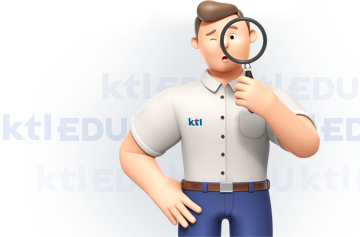
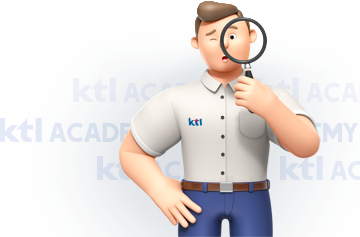
이미지 수정

diff --git a/html/css/main.css b/html/css/main.css
@@ -171,15 +171,16 @@ html, body {
     background: #f6f3f3;
 }
 .main .visual .inner {
-    max-width: 1730px;
+    max-width: 1920px;
     margin: 4.125rem auto;
 }
 .main .visual .text_box { 
     position: relative;
-    width: 60%;
-    max-width: 1300px;
+    width: 63%;
+    max-width: 1220px;
     background: url(../images/main/visual_text.png) no-repeat;
     background-size: 100%;
+    background-position: top 1.875rem right;
 }
 .main .visual .text_box > div {
     position: absolute;
@@ -1060,32 +1061,32 @@ html, body {
 }
 /********** top_btn **********/
 .main .quick_box {
-    left: auto;
-    margin-left: auto;
     right: 0;
-    margin-right: 12.5vw;
     bottom: 13.5rem;
+    left: auto;
+    margin-right: 12.5vw;
+    margin-left: auto;
 }
 .main .quick_box button, 
 .main .quick_box a {
     display: block;
     width: 3.5rem;
     height: 3.5rem;
-    background: rgba(244, 105, 111,1);
-    border-radius: .5rem;
     border: 0;
+    border-radius: .5rem;
+    background: rgba(244, 105, 111,1);
     color: #fff;
 }
 .main .quick_box button::after,
 .main .quick_box a::after {
     content: '';
     position: absolute;
-    left: 50%;
     top: 50%;
-    margin-left: -.375rem;
-    margin-top: -.1875rem;
+    left: 50%;
     width: .625rem;
     height: .625rem;
+    margin-top: -.1875rem;
+    margin-left: -.375rem;
     border-top: solid 2px currentColor;
     border-right: solid 2px currentColor;
     -webkit-transform: rotate(-45deg);
@@ -1109,10 +1110,16 @@ html, body {
     .main .quick_box {
         margin-right: 1rem;
     }
+    .main .visual .text_box {
+        background-position: center right;
+    }
 }
 
 /* 플러스사이즈 */
 @media screen and (max-width: 1270px) {    
+    .main .visual .text_box {
+        background-size: 120%;
+    }
     /****** 교육과정 ******/
     .main .tit_box {
         margin-bottom: 2rem;
@@ -1203,7 +1210,8 @@ html, body {
 @media screen and (max-width: 1135px) {
     /****** visual ******/
     .main .visual .text_box {
-        background-position: top 3.5rem left;
+        background-size: 140%;
+        background-position: top 2.5rem right;
     }
     .main .visual .text_box > div {
         bottom: 4.25rem;
@@ -1314,9 +1322,9 @@ html, body {
         width: 100%;
         max-width: 100%;
         margin-bottom: 2rem;
-        padding-top: 15rem;
+        padding-top: 17rem;
         background: url(../images/main/m_visual_text.png) no-repeat;
-        background-size: 85%;
+        background-size: auto;
         background-position: top center;
     }     
     .main .visual .text_box > div {
@@ -1440,7 +1448,7 @@ html, body {
 @media screen and (max-width:767px) {
     /****** visual ******/
     .main .visual .text_box {        
-        padding-top: 12.5rem;
+        padding-top: 13.5rem;
         background-size: 100%;
     } 
     .main .visual .text_box > div {
@@ -1542,7 +1550,7 @@ html, body {
         margin: 3.5rem 0;
     }
     .main .visual .text_box {
-        padding-top: 10rem;
+        padding-top: 12rem;
     }
     .main .login_wrap {
         display: none;
@@ -1599,7 +1607,7 @@ html, body {
         margin: 3rem 0;
     }
     .main .visual .text_box {
-        padding-top: 7rem;
+        padding-top: 8.25rem;
     }
     /**** link *****/
     .main .link_wrap ul {

diff --git a/html/index.html b/html/index.html
@@ -401,7 +401,7 @@
             <div class="inner">
                 <div class="text_box">
                     <p class="hide">
-                        KTL ACADEMY EDU SYSTEM, KTL EDU
+                        KTL ACADEMY, KTL EDUCATION SYSTEM
                     </p>
                     <div>
                         <P>KTL 교육 전문 시스템에 오신것을 환영합니다.</P>
